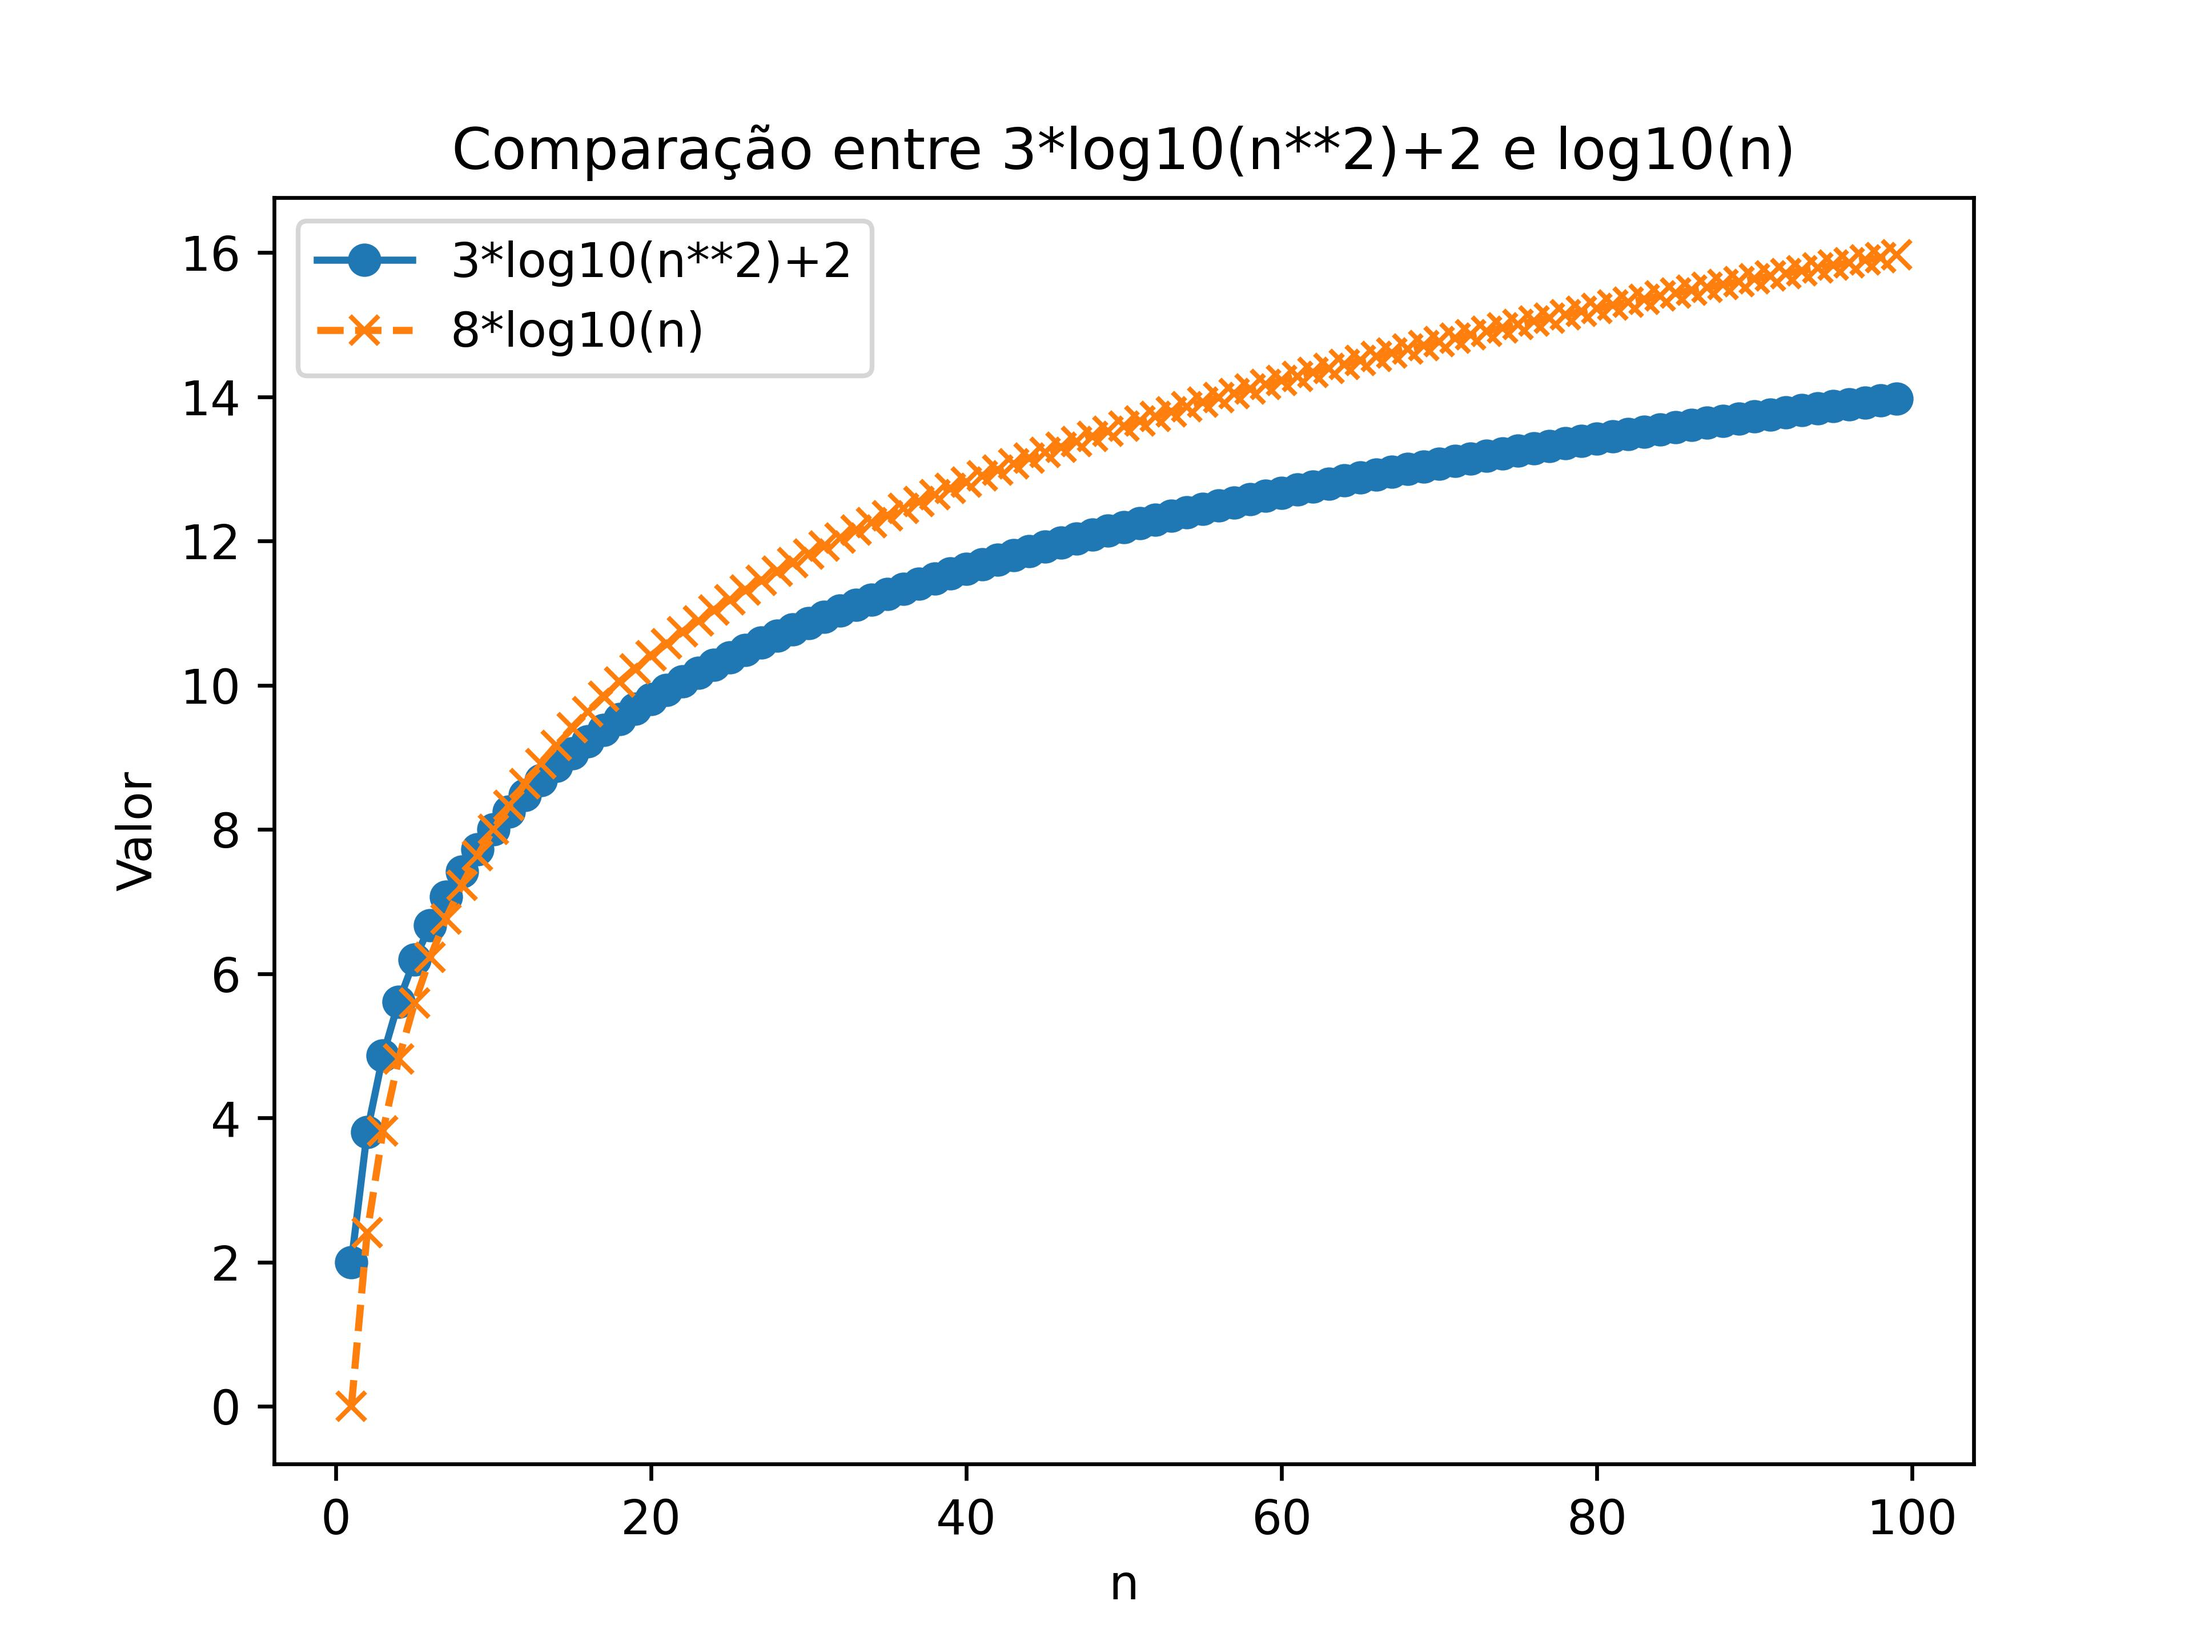
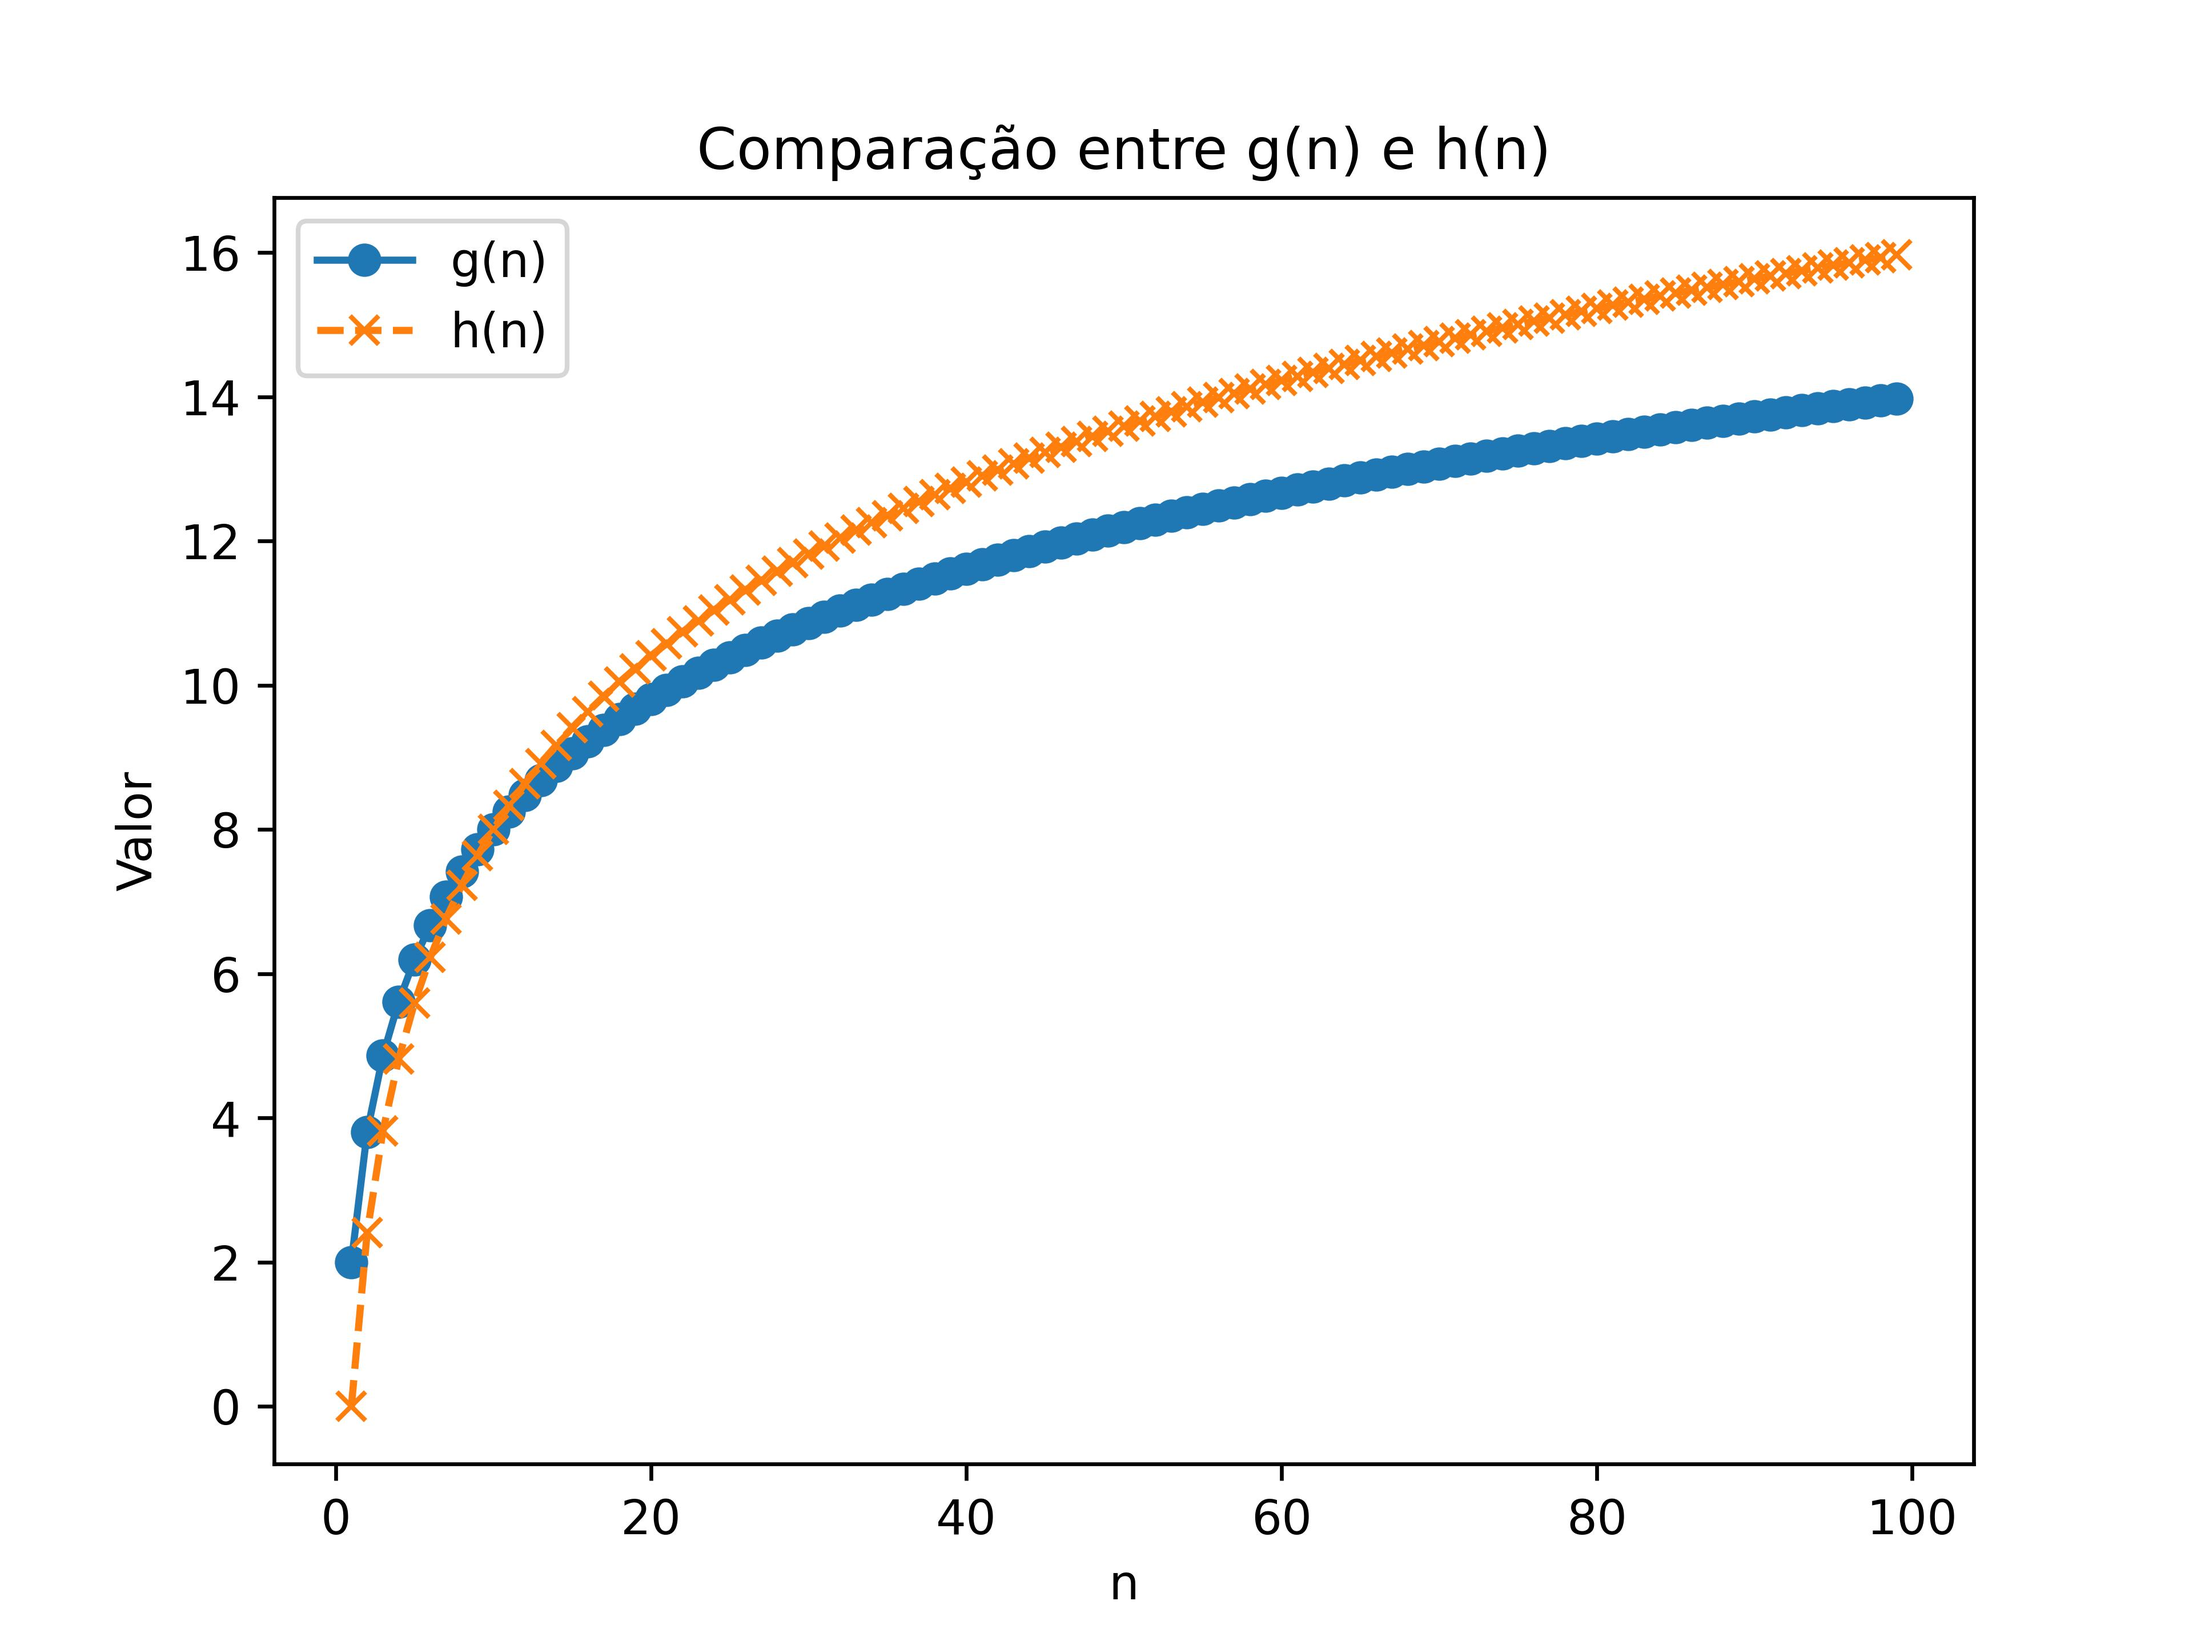
Alterações

Changed region(s): [[0.1875, 0.0625, 0.8125, 0.2188]]

diff --git a/grafico7/letra A/letra_a_parte1.py b/grafico7/letra A/letra_a_parte1.py
@@ -3,21 +3,16 @@ import numpy as np
 
 n = np.arange(1, 100)
 
+log_n = 3*np.log10(n**2)+2
 
-fn = 3*n**3 + 20*n**2 + 5
+n_cubico = 8*np.log10(n)
 
-gn = 3 * np.log10
-
-hn = n**2
-
-
-plt.plot(n, fn, label='f(n)', linestyle='-', marker='o')
-plt.plot(n, gn, label='g(n)', linestyle='--', marker='x')
-plt.plot(n, hn, label='h(n)', linestyle='--', marker='x')
+plt.plot(n, log_n, label='g(n)', linestyle='-', marker='o')
+plt.plot(n, n_cubico, label='h(n)', linestyle='--', marker='x')
 
 plt.xlabel('n')
 plt.ylabel('Valor')
-plt.title('Comparação entre 3*log10(n**2)+2 e log10(n)')
+plt.title('Comparação entre g(n) e h(n)')
 
 plt.legend()
 plt.savefig("parte1.jpg", dpi=600)

diff --git a/grafico7/letra A/letra_a_parte2.py b/grafico7/letra A/letra_a_parte2.py
@@ -7,12 +7,12 @@ log_n = 3*np.log10(n**2)+2
 
 n_cubico = np.log10(n)
 
-plt.plot(n, log_n, label='3*log10(n**2)+2', linestyle='-', marker='o')
+plt.plot(n, log_n, label='g(n)', linestyle='-', marker='o')
 plt.plot(n, n_cubico, label='log10(n)', linestyle='--', marker='x')
 
 plt.xlabel('n')
 plt.ylabel('Valor')
-plt.title('Comparação entre 3*log10(n**2)+2 e log10(n)')
+plt.title('Comparação entre g(n) e log10(n)')
 
 plt.legend()
 plt.savefig("parte2.jpg", dpi=600)
